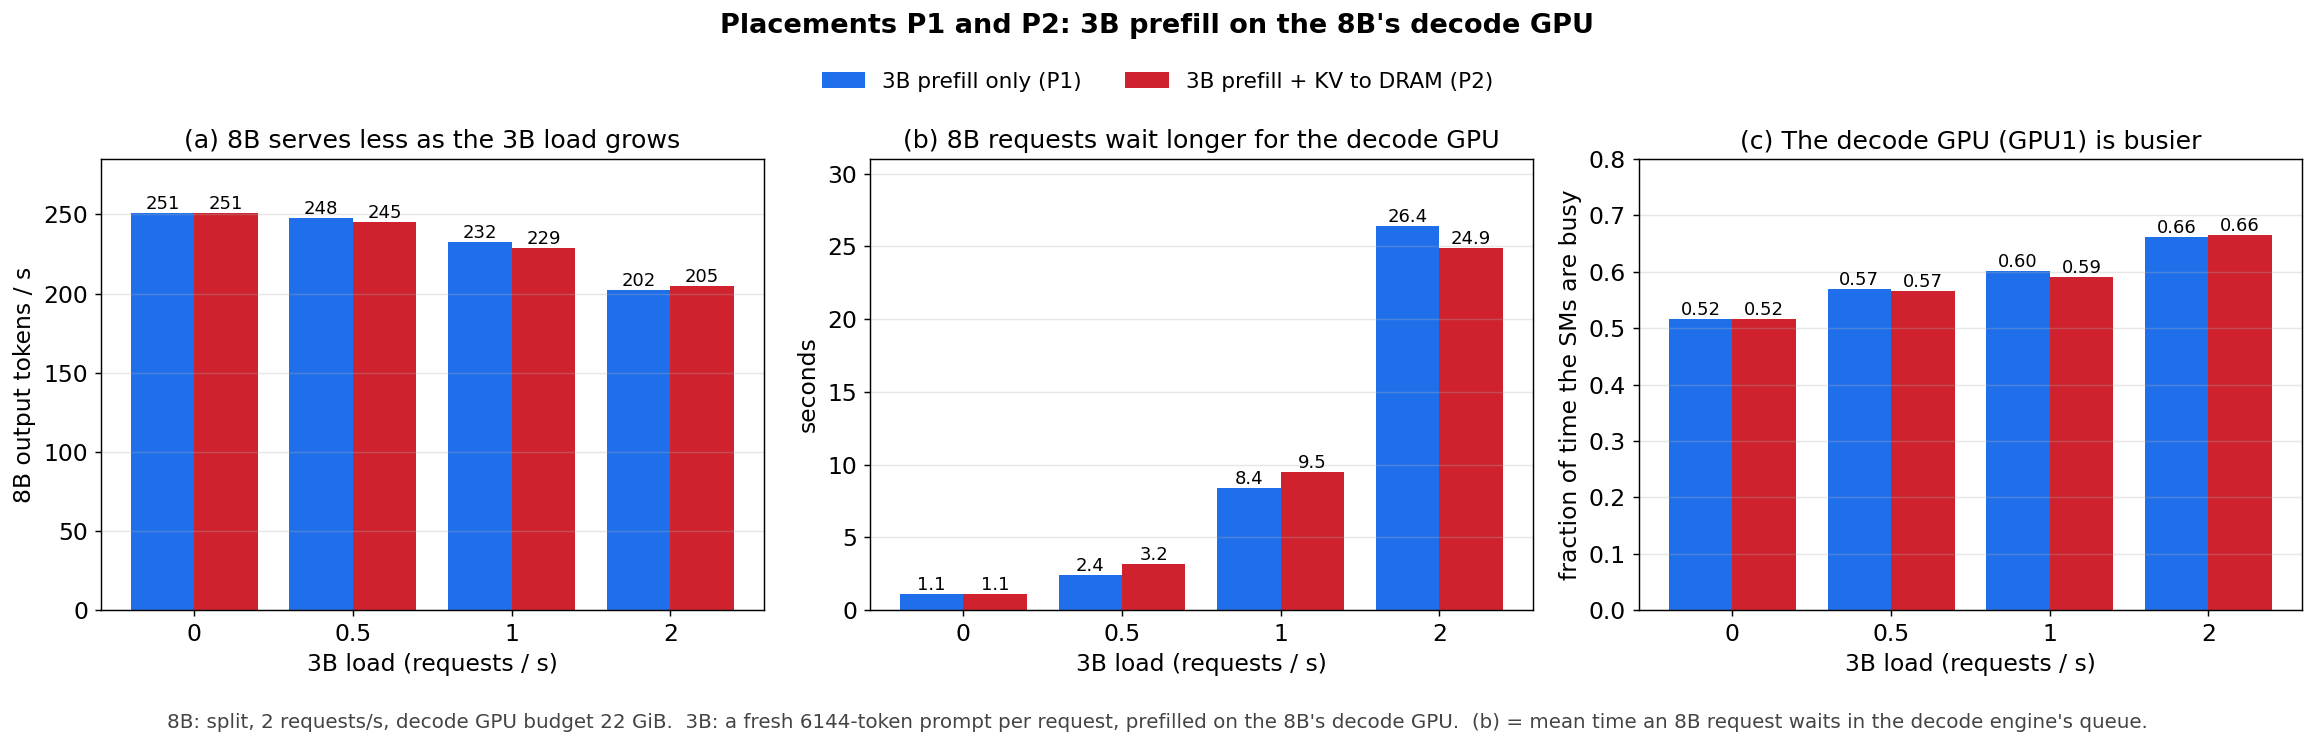
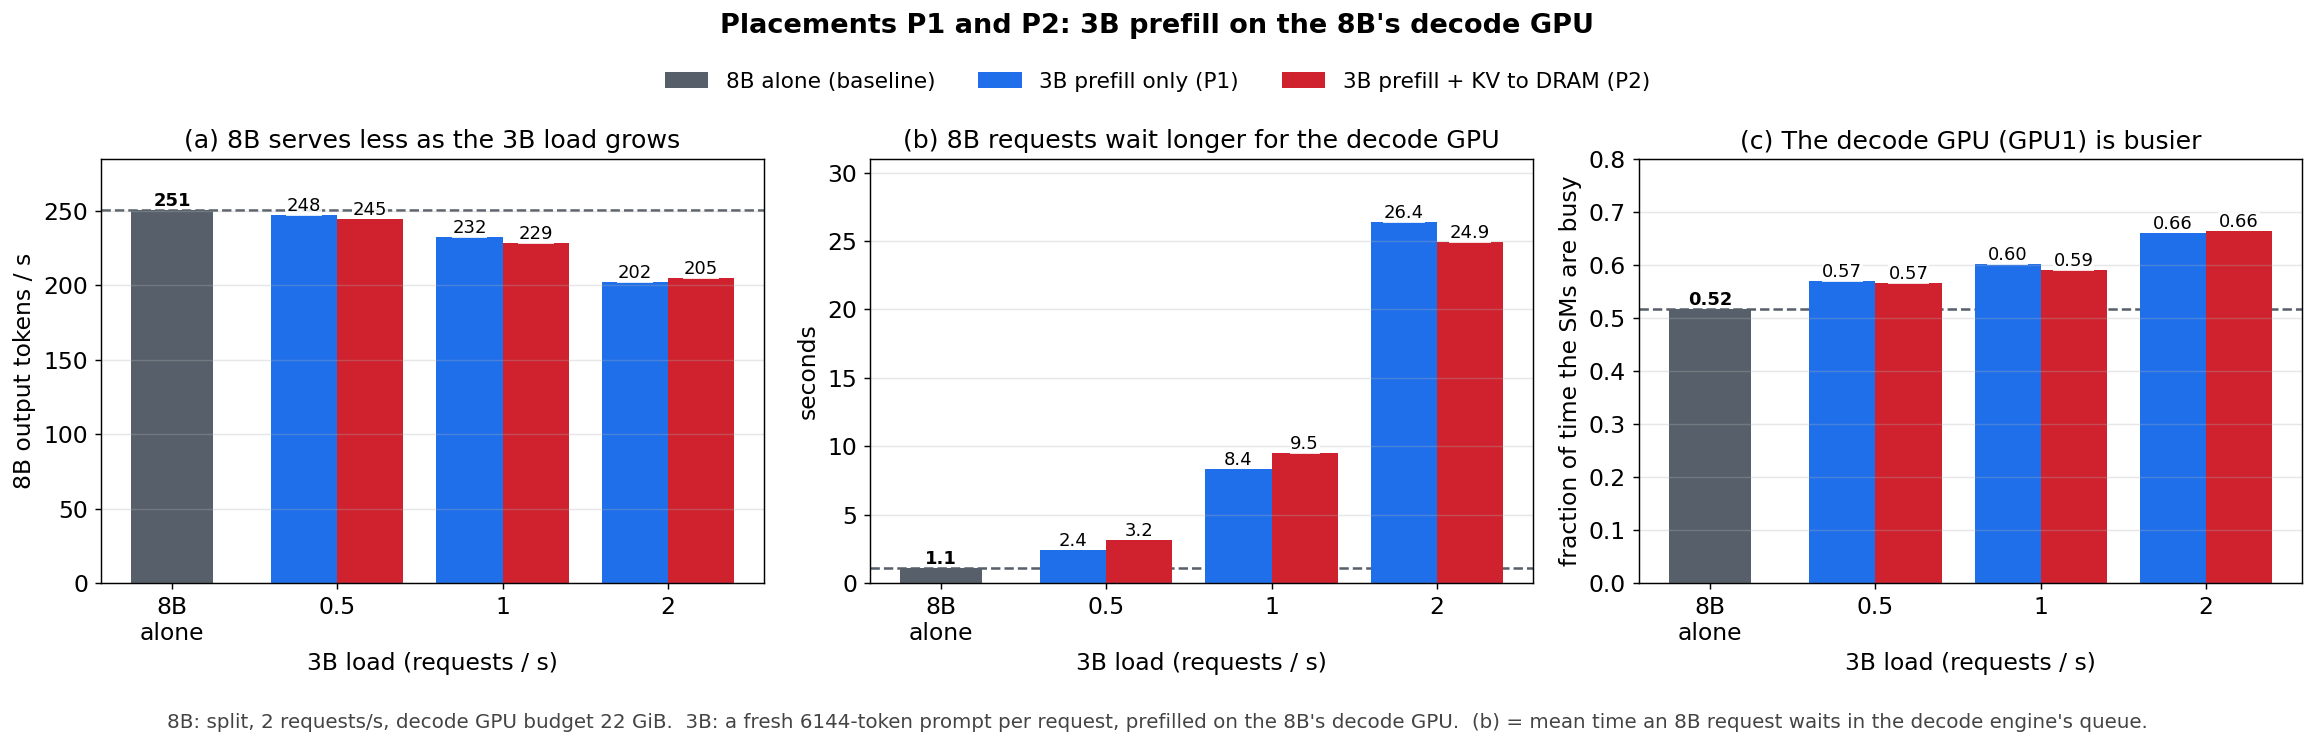
Prefill-coloc figures: make the 8B-alone baseline prominent
pfc_rate: the 8B alone is its own grey bar ("8B alone") with a dashed line across each
panel, first in the legend; bar labels get a white backing. pfc_saturation: the black
line is labelled as the baseline. Report caption updated.

diff --git a/scripts/plots/plot_pfc_results.py b/scripts/plots/plot_pfc_results.py
@@ -45,19 +45,27 @@ def cell(pl, q):
     return "pfc_base" if q is None else f"pfc_{pl}{q}"
 
 
-def bars(ax, vals, fmt, colors, labels):
-    """Grouped bars over the 3B rates, one group per rate, value on every bar."""
+C_BASE = "#57606a"
+
+
+def bars(ax, vals, fmt, colors, labels, base):
+    """x = 3B load. At 0 a single grey bar = the 8B alone (the baseline), carried across
+    the panel as a dashed line; at 0.5/1/2 one bar per placement, value on every bar."""
     xi = np.arange(len(RATES))
     w = 0.8 / len(vals)
+    ax.axhline(base, color=C_BASE, ls="--", lw=1.4, zorder=0)
+    b0 = ax.bar(0, base, 0.5, color=C_BASE, label="8B alone (baseline)")
+    ax.text(0, base, fmt(base), ha="center", va="bottom", fontsize=10, fontweight="bold")
     for k, (v, c, lab) in enumerate(zip(vals, colors, labels)):
-        xs = xi + (k - (len(vals) - 1) / 2) * w
-        b = ax.bar(xs, v, w, color=c, label=lab)
-        for rect, y in zip(b, v):
+        xs = xi[1:] + (k - (len(vals) - 1) / 2) * w
+        bb = ax.bar(xs, v[1:], w, color=c, label=lab)
+        for rect, y in zip(bb, v[1:]):
             if np.isfinite(y):
                 ax.text(rect.get_x() + rect.get_width() / 2, y, fmt(y), ha="center",
-                        va="bottom", fontsize=10)
+                        va="bottom", fontsize=10,
+                        bbox=dict(fc="white", ec="none", pad=0.4, alpha=0.85))
     ax.set_xticks(xi)
-    ax.set_xticklabels([r for r, _ in RATES])
+    ax.set_xticklabels(["8B\nalone"] + [r for r, _ in RATES[1:]])
     ax.set_xlabel("3B load (requests / s)")
     ax.grid(alpha=0.3, axis="y")
 
@@ -67,17 +75,19 @@ def rate_figure():
     cols, labs = [C_P1, C_P2], ["3B prefill only (P1)", "3B prefill + KV to DRAM (P2)"]
     get = lambda col: [[f(cell(pl, q), col) for _, q in RATES] for pl in ("p1", "p2")]
 
-    bars(ax[0], get("big_tok_per_s"), lambda y: f"{y:.0f}", cols, labs)
+    base = lambda col: f("pfc_base", col)
+    bars(ax[0], get("big_tok_per_s"), lambda y: f"{y:.0f}", cols, labs, base("big_tok_per_s"))
     ax[0].set(ylabel="8B output tokens / s", ylim=(0, 285),
               title="(a) 8B serves less as the 3B load grows")
     q = [np.array(v) / 1000 for v in get("big_decode_queue_ms")]
-    bars(ax[1], q, lambda y: f"{y:.1f}", cols, labs)
+    bars(ax[1], q, lambda y: f"{y:.1f}", cols, labs, base("big_decode_queue_ms") / 1000)
     ax[1].set(ylabel="seconds", ylim=(0, 31),
               title="(b) 8B requests wait longer for the decode GPU")
-    bars(ax[2], get("gpu1_sm_active_mean"), lambda y: f"{y:.2f}", cols, labs)
+    bars(ax[2], get("gpu1_sm_active_mean"), lambda y: f"{y:.2f}", cols, labs,
+         base("gpu1_sm_active_mean"))
     ax[2].set(ylabel="fraction of time the SMs are busy", ylim=(0, 0.8),
               title="(c) The decode GPU (GPU1) is busier")
-    fig.legend(*ax[0].get_legend_handles_labels(), loc="upper center", ncol=2,
+    fig.legend(*ax[0].get_legend_handles_labels(), loc="upper center", ncol=3,
                frameon=False, bbox_to_anchor=(0.5, 1.0))
     fig.suptitle("Placements P1 and P2: 3B prefill on the 8B's decode GPU", y=1.06,
                  fontsize=15, fontweight="bold")
@@ -94,7 +104,7 @@ def saturation_figure():
     """Per 8B request: the time it spent waiting rather than decoding, over the window.
     Waiting = (end - first token) - 127 tokens x the run's median gap between tokens; the
     median gap is the same 14.4-14.5 ms in every cell, so the rest is queueing."""
-    cells = [("pfc_base", "no 3B", "k"), ("pfc_p1_q0.5", "3B at 0.5 req/s", "#7aa7e8"),
+    cells = [("pfc_base", "8B alone (baseline)", "k"), ("pfc_p1_q0.5", "3B at 0.5 req/s", "#7aa7e8"),
              ("pfc_p1_q1", "3B at 1 req/s", C_P1), ("pfc_p1", "3B at 2 req/s", "#0b3d91")]
     fig, ax = plt.subplots(figsize=(9.5, 5))
     for nm, lab, c in cells:

diff --git a/reports/report_colocation_prefill.md b/reports/report_colocation_prefill.md
@@ -106,9 +106,9 @@ prefill → DRAM → 3B decode on GPU0. The 3B prefill is on GPU1 in all three.
 
 ![rate sweep](../figures/pfc_rate.png)
 
-*8B split at 2 requests/s, decode budget 22 GiB; the 3B's load on the x axis (0 = the 8B
-alone). (a) 8B output throughput. (b) Mean time an 8B request waits in the decode
-engine's queue. (c) GPU1 SM-active (fraction of time the SMs are busy).*
+*8B split at 2 requests/s, decode budget 22 GiB; the 3B's load on the x axis. Grey bar and dashed line = **the 8B alone (baseline)**; blue = with the 3B in
+P1, red = in P2. (a) 8B output throughput. (b) Mean time an 8B request waits in the
+decode engine's queue. (c) GPU1 SM-active (fraction of time the SMs are busy).*
 
 | 3B rate (req/s) | 8B tok/s P1 / P2 | 8B decode queue P1 / P2 | 8B TPOT p50 P1 / P2 | 8B ITL p50 | 3B TTFT p50, alone → with 8B: P1 | P2 (sync save) | GPU1 SM-active / occupancy (P1) |
 |---|---|---|---|---|---|---|---|
